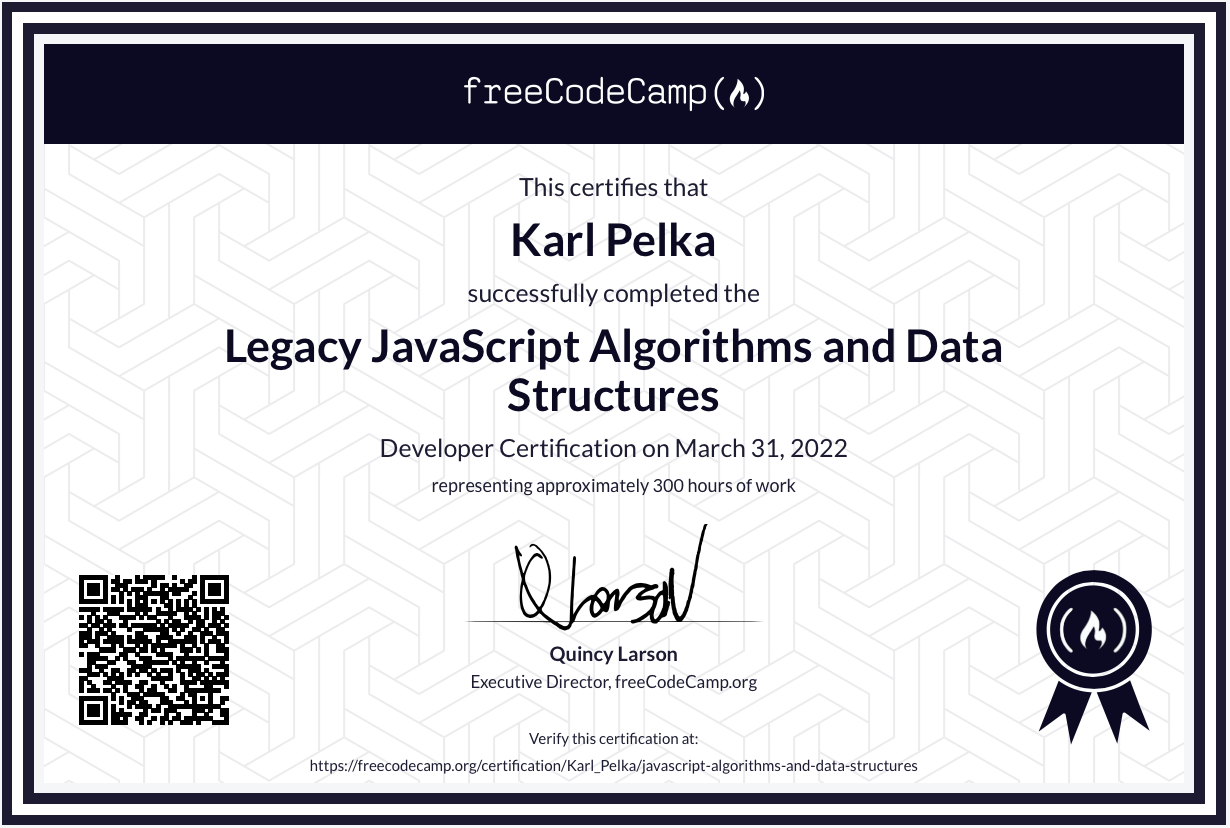
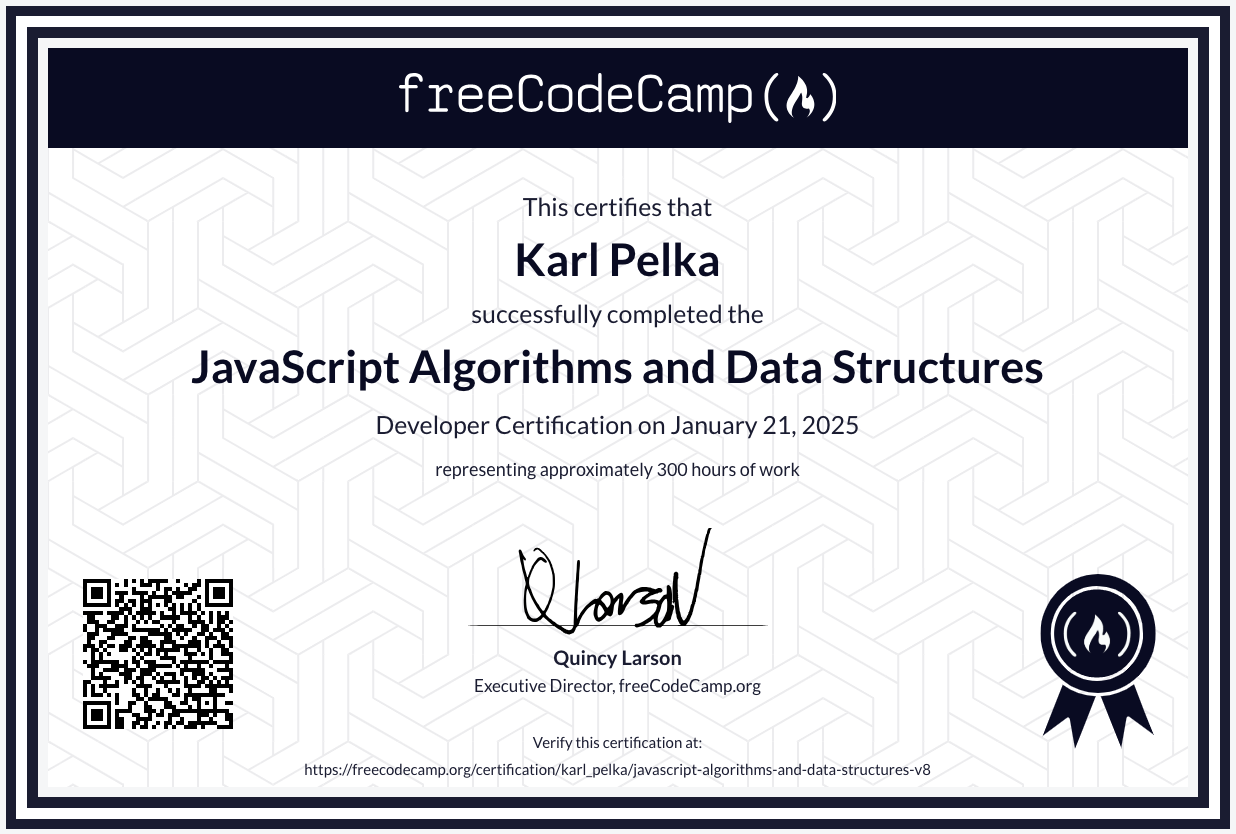
Update 3nd September 2025

diff --git a/_pages/codecerts.md b/_pages/codecerts.md
@@ -2,26 +2,47 @@
 layout: profiles
 permalink: /codecerts/
 title: Certifications
-description: An incomplete overview of the diving certifications and a brief reflection of the things that go into it.
+description: An incomplete overview of the programming certifications and a brief reflection of the things that go into it.
 nav: false
 nav_order: 
 
 profiles:
   # if you want to include more than one profile, just replicate the following block
   # and create one content file for each profile inside _pages/
+
   - align: right
-    image: codecerts/JSAlgDat.png
-    content: codecerts/JSAlgDat.md
-    image_circular: false # crops the image to make it circular
-    more_info: >
-  - align: left
     image: codecerts/PytDatAna.png
     content: codecerts/PytDatAna.md
     image_circular: false # crops the image to make it circular
     more_info: > 
-  - align: right
+  - align: left
     image: codecerts/PytSciCom.png
     content: codecerts/PytSciCom.md
+    image_circular: false # crops the image to make it circular
+    more_info: > 
+  - align: right
+    image: codecerts/QuAs.png
+    content: codecerts/QuAs.md
+    image_circular: false # crops the image to make it circular
+    more_info: > 
+  - align: left
+    image: codecerts/BackEnd.png
+    content: codecerts/BackEnd.md
+    image_circular: false # crops the image to make it circular
+    more_info: > 
+  - align: right
+    image: codecerts/DatVis.png
+    content: codecerts/DatVis.md
+    image_circular: false # crops the image to make it circular
+    more_info: >
+  - align: left
+    image: codecerts/FrontEnd.png
+    content: codecerts/FrontEnd.md
+    image_circular: false # crops the image to make it circular
+    more_info: > 
+  - align: right
+    image: codecerts/JSAlgDat.png
+    content: codecerts/JSAlgDat.md
     image_circular: false # crops the image to make it circular
     more_info: > 
   - align: left

diff --git a/_posts/2025-06-12-Helgoland.md b/_posts/2025-06-12-Helgoland.md
@@ -2,8 +2,8 @@
 layout: post
 title: Quantumalta at 100 years of quantum mechanics 2025 in Helgoland, Germany
 date: 2025-06-12 11:01:00
-description: Poster on quantum Zeno blockade
-tags: FNS Atsugi
+description: Poster on nonreciprocal entanglement routing
+tags: Helgoland MaxPlanckSociety
 categories: Conferences
 thumbnail: assets/img/Helgoland_Poster.jpg
 ---
@@ -12,8 +12,16 @@ I got the chance to present a poster about our latest work on "Routing entanglem
 
 <div class="row mt-3">
     <div class="col-sm mt-3 mt-md-0">
-        {% include figure.liquid loading="eager" path="assets/img/Helgoland_Poster.jpg" class="img-fluid rounded z-depth-1" %}
+        {% include figure.liquid loading="eager" path="assets/img/HelgolandDinner.jpg" class="img-fluid rounded z-depth-1" %}
     </div>
+</div>
+<div class="caption">
+    Listening to the historic talks on quantum mechanics with Nobel contemporaries in Hamburg, Germany.
+</div>
+
+Recap about the conference dinner in Hamburg.
+
+<div class="row mt-3">
     <div class="col-sm mt-3 mt-md-0">
         {% include figure.liquid loading="eager" path="assets/img/Helgoland_Poster.jpg" class="img-fluid rounded z-depth-1" %}
     </div>
@@ -22,4 +30,4 @@ I got the chance to present a poster about our latest work on "Routing entanglem
     Me presenting our poster on routing of entanglement in quantum networks in Helgoland, Germany.
 </div>
 
-Recap.
+Recap on the conference in Helgoland.

diff --git a/_posts/2025-06-06-Atsugi.md b/_posts/2025-06-06-Atsugi.md
@@ -12,8 +12,16 @@ I got the chance to present a poster about our latest work on "quantum Zeno bloc
 
 <div class="row mt-3">
     <div class="col-sm mt-3 mt-md-0">
-        {% include figure.liquid loading="eager" path="assets/img/FNS2025_Poster.jpeg" class="img-fluid rounded z-depth-1" %}
+        {% include figure.liquid loading="eager" path="assets/img/FNS2025_Opening.jpg" class="img-fluid rounded z-depth-1" %}
     </div>
+</div>
+<div class="caption">
+    From the conference hall right before the opening session of FNS 2025 in Atsugi, Japan.
+</div>
+
+A lot of great talks were presented at FNS 2025, especially Motoki Asano really made my day by citing my work during his talk.
+
+<div class="row mt-3">
     <div class="col-sm mt-3 mt-md-0">
         {% include figure.liquid loading="eager" path="assets/img/FNS2025_Poster.jpeg" class="img-fluid rounded z-depth-1" %}
     </div>
@@ -22,4 +30,3 @@ I got the chance to present a poster about our latest work on "quantum Zeno bloc
     Me presenting our poster on the quantum Zeno effect in optomechanical systems at FNS 2025 in Atsugi, Japan.
 </div>
 
-A lot of great talks were presented at FNS 2025, especially Motoki Asano really made my day by citing my work during his talk.

diff --git a/_pages/codecerts/BackEnd.md b/_pages/codecerts/BackEnd.md
@@ -1,0 +1,1 @@
+I enjoyed implementing functionality in websites through node.js with the course on [Back End Development and APIs](https://www.freecodecamp.org/learn/back-end-development-and-apis/) at [freecodecamp](https://www.freecodecamp.org).

diff --git a/_pages/codecerts/DatVis.md b/_pages/codecerts/DatVis.md
@@ -1,0 +1,1 @@
+I worked through the material on [Data Visualization](https://www.freecodecamp.org/learn/data-visualization/) at [freecodecamp](https://www.freecodecamp.org) and learned how to generate interactive visuals through this course.

diff --git a/_pages/codecerts/FrontEnd.md b/_pages/codecerts/FrontEnd.md
@@ -1,0 +1,1 @@
+I learned about front end development mostly with React on the course [Front End Development Libraries](https://www.freecodecamp.org/learn/front-end-development-libraries/) at [freecodecamp](https://www.freecodecamp.org).

diff --git a/_pages/codecerts/QuAs.md b/_pages/codecerts/QuAs.md
@@ -1,0 +1,1 @@
+I learned how to set up tests for back end code on the course on [Quality Assurance](https://www.freecodecamp.org/learn/quality-assurance/) at [freecodecamp](https://www.freecodecamp.org).
